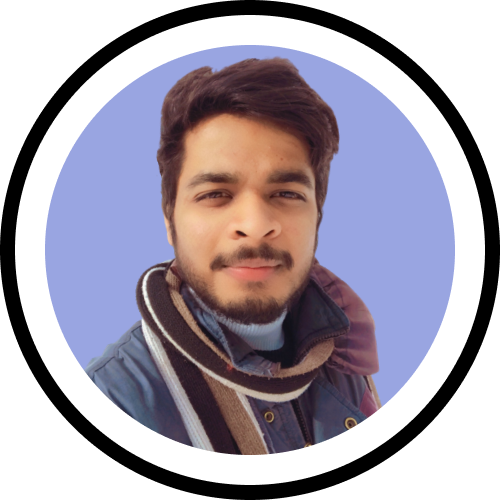
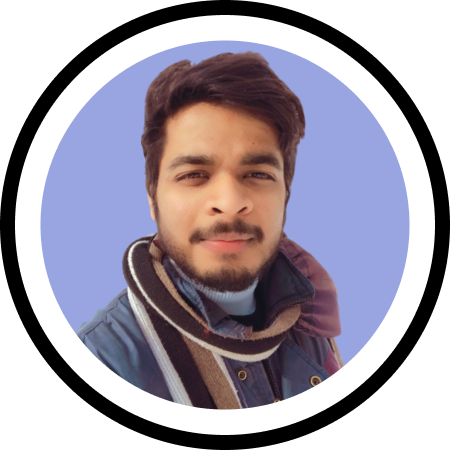
update 11-07

diff --git a/css/style.css b/css/style.css
@@ -14,22 +14,21 @@
     display: inline;
     text-decoration: none;
     font-family: 'Itim', cursive;
-    font-size: 40px;
+    font-size: 35px;
     color: #354DC4;}
 /* Navigation Bar : list styling */
 #navbar ul{
     display: flex;
     font-family: 'Inter';
     font-weight: 800;
-    font-size: 24px;
-    line-height: 20px;
+    font-size: 20px;
     list-style: none;}
 .item a{
     display: block;
-    width: 180px;
-    height: 34px;
+    width: 150px;
+    height: 30px;
     margin: 0px 10px;
-    padding-top: 10px;
+    padding-top: 5px;
     text-align: center;
     text-decoration: none;
     background: #8845F4;
@@ -37,10 +36,10 @@
     color: white;}
 .item1 a{ 
     display: block;
-    width: 180px;
-    height: 34px;
+    width: 150px;
+    height: 30px;
     margin: 0px 10px;
-    padding-top: 10px;
+    padding-top: 5px;
     text-align: center;
     text-decoration: none;
     border-radius: 10px;
@@ -71,10 +70,10 @@
     box-sizing: border-box;
     background-image: url(/image/DP.png);
     position: absolute;
-    width: 500px;
-    height: 500px;
-    right: 80px;
-    top: 170px;
+    width: 450px;
+    height: 450px;
+    left: 740px;
+    top: 210px;
 }
 #intro{
     /* position: absolute;
@@ -82,10 +81,7 @@
     top: 180px; */
     display: inline;
     font-family: 'Cantarell';
-    font-style: normal;
-    font-weight: 700;
-    font-size: 90px;
-    line-height: 100px;
+    font-size: 70px;
     letter-spacing: -0.05em;
 }
 #cv{
